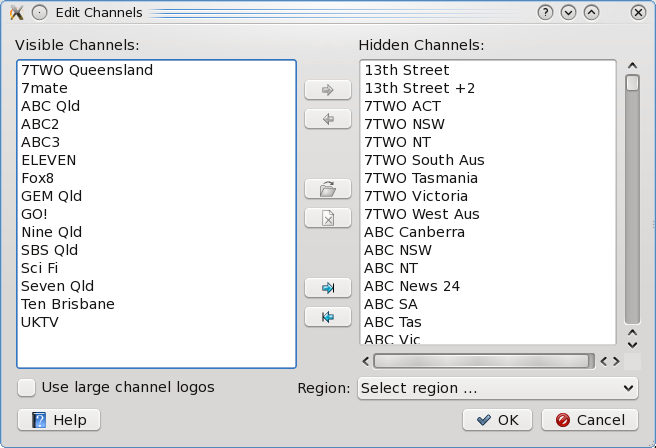
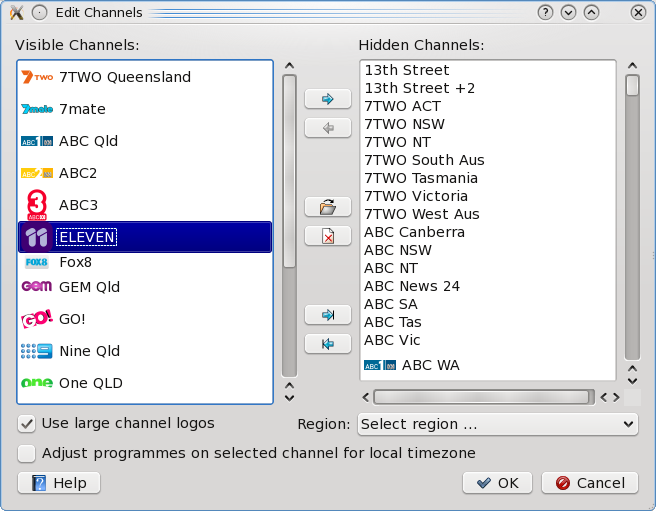
Timezone conversion on a per-channel basis.

Changed region(s): [[0.0, 0.0, 0.9756, 0.9688], [0.9451, 0.0, 1.0, 0.0625]]

diff --git a/help/en/edit_channels.html b/help/en/edit_channels.html
@@ -25,6 +25,13 @@ can be used to add and remove channel-specific logo images.<p>
 the Australian TV programme data from the
 <a href="http://www.oztivo.net/">OzTivo</a> guide service.<p>
 
+Channels can be set to automatically adjust the timezone of
+programmes to convert from another timezone into local time.
+This is useful for channels from one city that are
+simultaneously broadcast into cities in other timezones.
+Setting this option will adjust the programmes so that you
+can see when the programme will be on in your city.<p>
+
 <a href="index.html">Return to main index</a>
 
 </body>

diff --git a/src/channeleditor.cpp b/src/channeleditor.cpp
@@ -26,6 +26,7 @@
 ChannelEditor::ChannelEditor(TvChannelList *channelList, QWidget *parent)
     : QDialog(parent)
     , m_channelList(channelList)
+    , m_timezoneBlock(false)
 {
     setupUi(this);
 
@@ -55,6 +56,9 @@ ChannelEditor::ChannelEditor(TvChannelList *channelList, QWidget *parent)
 
         item1->setData(Qt::UserRole + 2, channel->iconFile());
         item2->setData(Qt::UserRole + 2, channel->iconFile());
+
+        item1->setData(Qt::UserRole + 3, channel->convertTimezone());
+        item2->setData(Qt::UserRole + 3, channel->convertTimezone());
     }
 
     if (channelList->largeIcons()) {
@@ -77,6 +81,7 @@ ChannelEditor::ChannelEditor(TvChannelList *channelList, QWidget *parent)
     connect(setIconButton, SIGNAL(clicked()), this, SLOT(setIcon()));
     connect(removeIconButton, SIGNAL(clicked()), this, SLOT(removeIcon()));
     connect(largeIcons, SIGNAL(toggled(bool)), this, SLOT(largeIconsChanged(bool)));
+    connect(timezone, SIGNAL(toggled(bool)), this, SLOT(timezoneChanged(bool)));
 
     connect(activeChannels, SIGNAL(itemSelectionChanged()),
             this, SLOT(updateMakeInactive()));
@@ -84,6 +89,8 @@ ChannelEditor::ChannelEditor(TvChannelList *channelList, QWidget *parent)
             this, SLOT(itemDoubleClicked(QListWidgetItem*)));
     connect(activeChannels, SIGNAL(itemSelectionChanged()),
             this, SLOT(updateSetIcon()));
+    connect(activeChannels, SIGNAL(itemSelectionChanged()),
+            this, SLOT(updateTimezone()));
 
     connect(inactiveChannels, SIGNAL(itemSelectionChanged()),
             this, SLOT(updateMakeActive()));
@@ -94,6 +101,7 @@ ChannelEditor::ChannelEditor(TvChannelList *channelList, QWidget *parent)
     makeInactive->setEnabled(false);
     setIconButton->setEnabled(false);
     removeIconButton->setEnabled(false);
+    timezone->setEnabled(false);
 
     if (channelList->startUrl().host().endsWith(QLatin1String(".oztivo.net")))
         loadOzTivoRegions();
@@ -122,6 +130,7 @@ ChannelEditor::~ChannelEditor()
 void ChannelEditor::accept()
 {
     int count = activeChannels->count();
+    bool timezonesChanged = false;
     for (int index = 0; index < count; ++index) {
         QListWidgetItem *item = activeChannels->item(index);
         TvChannel *channel = static_cast<TvChannel *>
@@ -129,8 +138,15 @@ void ChannelEditor::accept()
         channel->setHidden(item->isHidden());
         channel->setIcon(item->icon());
         channel->setIconFile(item->data(Qt::UserRole + 2).toString());
+        bool timezone = item->data(Qt::UserRole + 3).toBool();
+        if (timezone != channel->convertTimezone()) {
+            channel->setConvertTimezone(timezone);
+            timezonesChanged = true;
+        }
     }
     m_channelList->updateChannels(largeIcons->isChecked());
+    if (timezonesChanged)
+        m_channelList->timezoneSettingsChanged();
     QDialog::accept();
 }
 
@@ -243,6 +259,21 @@ void ChannelEditor::updateSetIcon()
     removeIconButton->setEnabled(items.size() == 1 && !items.at(0)->icon().isNull());
 }
 
+void ChannelEditor::updateTimezone()
+{
+    m_timezoneBlock = true;
+    QList<QListWidgetItem *> items = activeChannels->selectedItems();
+    if (items.size() == 1) {
+        timezone->setEnabled(true);
+        bool value = items.at(0)->data(Qt::UserRole + 3).toBool();
+        timezone->setChecked(value);
+    } else {
+        timezone->setEnabled(false);
+        timezone->setChecked(false);
+    }
+    m_timezoneBlock = false;
+}
+
 void ChannelEditor::itemDoubleClicked(QListWidgetItem *item)
 {
     QListWidgetItem *other = static_cast<QListWidgetItem *>
@@ -291,6 +322,15 @@ void ChannelEditor::regionChanged(int index)
             other->setHidden(false);
         }
     }
+}
+
+void ChannelEditor::timezoneChanged(bool value)
+{
+    if (m_timezoneBlock)
+        return;
+    QList<QListWidgetItem *> items = activeChannels->selectedItems();
+    if (!items.isEmpty())
+        items.at(0)->setData(Qt::UserRole + 3, value);
 }
 
 void ChannelEditor::loadOzTivoRegions()

diff --git a/src/tvchannellist.cpp b/src/tvchannellist.cpp
@@ -113,6 +113,8 @@ void TvChannelList::load(QXmlStreamReader *reader, const QUrl &url)
                     newChannels = true;
                     if (m_hiddenChannelIds.contains(channelId))
                         channel->setHidden(true);
+                    if (m_timezoneConvertChannelIds.contains(channelId))
+                        channel->setConvertTimezone(true);
                 }
                 if (channel->hasDataFor())
                     m_hasDataFor = true;
@@ -128,6 +130,8 @@ void TvChannelList::load(QXmlStreamReader *reader, const QUrl &url)
                     newChannels = true;
                     if (m_hiddenChannelIds.contains(channelId))
                         channel->setHidden(true);
+                    if (m_timezoneConvertChannelIds.contains(channelId))
+                        channel->setConvertTimezone(true);
                 }
                 programme = new TvProgramme(channel);
                 programme->load(reader);
@@ -349,6 +353,7 @@ void TvChannelList::reloadService()
     m_channels.clear();
     m_activeChannels.clear();
     m_hiddenChannelIds.clear();
+    m_timezoneConvertChannelIds.clear();
     m_iconFiles.clear();
     m_hasDataFor = false;
     m_largeIcons = true;
@@ -385,6 +390,7 @@ void TvChannelList::reloadService()
 void TvChannelList::updateChannels(bool largeIcons)
 {
     QSet<QString> hidden;
+    QSet<QString> convert;
     QMap<QString, QString> iconFiles;
     for (int index = 0; index < m_activeChannels.size(); ++index) {
         TvChannel *channel = m_activeChannels.at(index);
@@ -393,17 +399,27 @@ void TvChannelList::updateChannels(bool largeIcons)
         QString file = channel->iconFile();
         if (!file.isEmpty())
             iconFiles.insert(channel->id(), file);
+        if (channel->convertTimezone())
+            convert.insert(channel->id());
     }
     if (m_hiddenChannelIds != hidden ||
+            m_timezoneConvertChannelIds != convert ||
             m_iconFiles != iconFiles ||
             m_largeIcons != largeIcons) {
         m_hiddenChannelIds = hidden;
+        m_timezoneConvertChannelIds = convert;
         m_iconFiles = iconFiles;
         m_largeIcons = largeIcons;
         saveChannelSettings();
         emit hiddenChannelsChanged();
         refreshIcons();
     }
+}
+
+void TvChannelList::timezoneSettingsChanged()
+{
+    m_loaded.clear();
+    refreshChannels(false);
 }
 
 void TvChannelList::clearCache()
@@ -717,6 +733,7 @@ void TvChannelList::loadServiceSettings(QSettings *settings)
     settings->beginGroup(m_serviceId);
     m_largeIcons = settings->value(QLatin1String("largeIcons"), true).toBool();
     m_hiddenChannelIds.clear();
+    m_timezoneConvertChannelIds.clear();
     m_iconFiles.clear();
     int size = settings->beginReadArray(QLatin1String("channels"));
     for (int index = 0; index < size; ++index) {
@@ -730,6 +747,9 @@ void TvChannelList::loadServiceSettings(QSettings *settings)
         QString file = settings->value(QLatin1String("icon")).toString();
         if (!file.isEmpty())
             m_iconFiles.insert(id, file);
+        bool timezone = settings->value(QLatin1String("convertTimezone"), false).toBool();
+        if (timezone)
+            m_timezoneConvertChannelIds.insert(id);
     }
     settings->endArray();
 
@@ -770,6 +790,7 @@ void TvChannelList::saveChannelSettings()
             settings.remove(QLatin1String("icon"));
         else
             settings.setValue(QLatin1String("icon"), file);
+        settings.setValue(QLatin1String("convertTimezone"), channel->convertTimezone());
     }
     settings.endArray();
     settings.endGroup();

diff --git a/src/tvchannel.cpp b/src/tvchannel.cpp
@@ -28,6 +28,7 @@ TvChannel::TvChannel(TvChannelList *channelList)
     , m_lastInsert(0)
     , m_primaryChannelNumber(-1)
     , m_hidden(false)
+    , m_convertTimezone(false)
 {
 }
 
@@ -433,7 +434,7 @@ static int fetchField(const QString &str, int *posn, int size)
 
 // Format is "yyyyMMddhhmmss (+/-)zzzz" but isn't easily parseable
 // by QDateTime::fromString().  So do it the long way.
-QDateTime TvChannel::stringToDateTime(const QString &str)
+QDateTime TvChannel::stringToDateTime(const QString &str, TvChannel *channel)
 {
     int posn = 0;
     int year = fetchField(str, &posn, 4);
@@ -457,13 +458,16 @@ QDateTime TvChannel::stringToDateTime(const QString &str)
             break;
         }
     }
-    // FIXME: assume local time because it is too expensive
-    // to ask the system what the current timezone is.
-    return QDateTime(QDate(year, month, day), QTime(hour, min, sec));
-    //QDateTime dt(QDate(year, month, day), QTime(hour, min, sec));
-    //dt.setUtcOffset(tz * 60);
-    // Converting from a UTC offset to local must go via UTC.
-    //return dt.toTimeSpec(Qt::UTC).toTimeSpec(Qt::LocalTime);
+    if (channel && channel->convertTimezone()) {
+        QDateTime dt(QDate(year, month, day), QTime(hour, min, sec));
+        dt.setUtcOffset(tz * 60);
+        // Converting from a UTC offset to local must go via UTC.
+        return dt.toTimeSpec(Qt::UTC).toTimeSpec(Qt::LocalTime);
+    } else {
+        // Ignore the timezone on the incoming value and assume
+        // that it is local time.
+        return QDateTime(QDate(year, month, day), QTime(hour, min, sec));
+    }
 }
 
 static int fetchDashField(const QString &str, int *posn)

diff --git a/src/tvchannel.h b/src/tvchannel.h
@@ -43,6 +43,9 @@ public:
     bool isHidden() const { return m_hidden; }
     void setHidden(bool value) { m_hidden = value; }
 
+    bool convertTimezone() const { return m_convertTimezone; }
+    void setConvertTimezone(bool value) { m_convertTimezone = value; }
+
     QString name() const { return m_name; }
     void setName(const QString &name) { m_name = name; }
 
@@ -90,7 +93,7 @@ public:
         (const QDate &first, const QDate &last,
          TvBookmark::MatchOptions options) const;
 
-    static QDateTime stringToDateTime(const QString &str);
+    static QDateTime stringToDateTime(const QString &str, TvChannel *channel = 0);
     static QDate stringToDate(const QString &str);
 
     int compare(const TvChannel *other) const;
@@ -110,6 +113,7 @@ private:
     QStringList m_channelNumbers;
     int m_primaryChannelNumber;
     bool m_hidden;
+    bool m_convertTimezone;
 
     void addDataFor(const QDate &date, const QDateTime &lastModified);
 };

diff --git a/src/tvprogramme.cpp b/src/tvprogramme.cpp
@@ -84,8 +84,8 @@ void TvProgramme::load(QXmlStreamReader *reader)
     Q_ASSERT(reader->name() == QLatin1String("programme"));
     QString start = reader->attributes().value(QLatin1String("start")).toString();
     QString stop = reader->attributes().value(QLatin1String("stop")).toString();
-    m_start = TvChannel::stringToDateTime(start);
-    m_stop = TvChannel::stringToDateTime(stop);
+    m_start = TvChannel::stringToDateTime(start, m_channel);
+    m_stop = TvChannel::stringToDateTime(stop, m_channel);
     while (!reader->hasError()) {
         QXmlStreamReader::TokenType token = reader->readNext();
         if (token == QXmlStreamReader::StartElement) {

diff --git a/src/channeleditor.h b/src/channeleditor.h
@@ -45,9 +45,11 @@ private Q_SLOTS:
     void updateMakeInactive();
     void updateMakeActive();
     void updateSetIcon();
+    void updateTimezone();
     void itemDoubleClicked(QListWidgetItem *item);
     void largeIconsChanged(bool value);
     void regionChanged(int index);
+    void timezoneChanged(bool value);
     void help();
 
 private:
@@ -63,6 +65,7 @@ private:
     TvChannelList *m_channelList;
     QMap<QString, Region *> m_regions;
     QMap<QString, Region *> m_channelToRegion;
+    bool m_timezoneBlock;
 
     void loadOzTivoRegions();
     void loadOzTivoRegionData(QXmlStreamReader *reader);

diff --git a/src/tvchannellist.h b/src/tvchannellist.h
@@ -69,6 +69,7 @@ public Q_SLOTS:
     void reload();
     void reloadService();
     void updateChannels(bool largeIcons);
+    void timezoneSettingsChanged();
     void clearCache();
 
 private Q_SLOTS:
@@ -112,6 +113,7 @@ private:
     QMap<QString, TvChannel *> m_channels;
     QList<TvChannel *> m_activeChannels;
     QSet<QString> m_hiddenChannelIds;
+    QSet<QString> m_timezoneConvertChannelIds;
     QMap<QString, QString> m_iconFiles;
     QNetworkAccessManager m_nam;
     QString m_serviceId;
